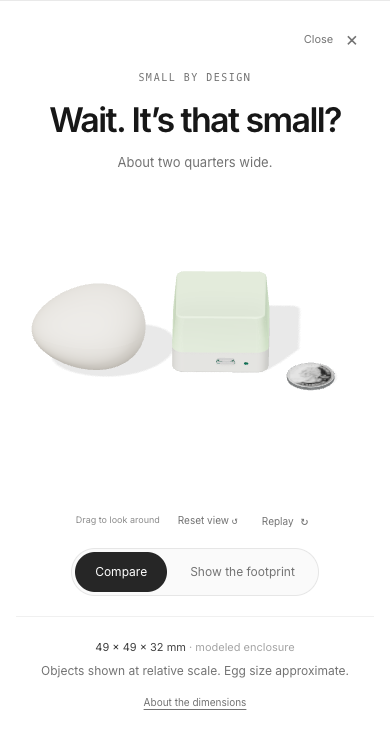
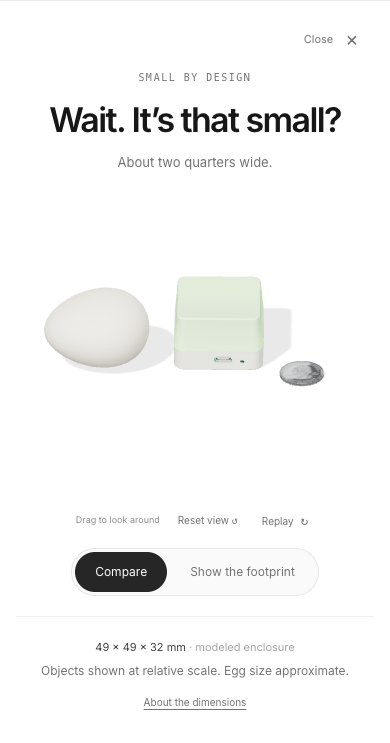
Smooth overhead camera transition and refine quarter silver finish

diff --git a/src/scale/scene.js b/src/scale/scene.js
@@ -3,6 +3,7 @@ import {GLTFLoader} from 'three/addons/loaders/GLTFLoader.js';
 import {RoomEnvironment} from 'three/addons/environments/RoomEnvironment.js';
 import {scaleConfig as C,ease,coinSupport} from './config.js';
 import {makeEgg,makeQuarter} from './assets.js';
+import {comparisonCameraPose} from './camera.js';
 export async function createComparison(host,state){
  const renderer=new T.WebGLRenderer({antialias:true,alpha:true,preserveDrawingBuffer:true});
  renderer.setPixelRatio(Math.min(devicePixelRatio,C.quality.pixelRatio));renderer.setClearColor('#fff',0);renderer.toneMapping=T.ACESFilmicToneMapping;renderer.toneMappingExposure=.85;renderer.shadowMap.enabled=true;renderer.shadowMap.type=T.PCFShadowMap;
@@ -33,8 +34,7 @@ export async function createComparison(host,state){
  function render(now){raf=0;if(dead||!visible||document.hidden)return;
  const rt=state.reduced||state.mobile?1:Math.min(1,(now-revealStart)/C.timing.reveal),r=ease(rt),v=state.reduced?1:ease((now-viewStart)/C.timing.view);view=T.MathUtils.lerp(from,to,v);
  const w=host.clientWidth,h=host.clientHeight,aspect=w/h,vertical=T.MathUtils.lerp(C.camera.closeSpan,Math.max((state.mobile?C.camera.mobileSpan:C.camera.span)/aspect,state.mobile?150:118),r);camera.left=-vertical*aspect/2;camera.right=vertical*aspect/2;camera.top=vertical/2;camera.bottom=-vertical/2;
- const orbitTarget=new T.Vector3(...C.camera.target),orbit=new T.Spherical().setFromVector3(new T.Vector3(...C.camera.compare).sub(orbitTarget));orbit.theta+=state.rotation.yaw;orbit.phi+=state.rotation.pitch;
- camera.position.setFromSpherical(orbit).add(orbitTarget).lerp(new T.Vector3(...C.camera.overhead),view);const target=new T.Vector3(...C.camera.target).multiplyScalar(r);target.multiplyScalar(1-view);target.z+=view*10;camera.position.z+=view*10;camera.lookAt(target);camera.updateProjectionMatrix();
+ const pose=comparisonCameraPose(view,r,state.rotation);camera.position.copy(pose.position);camera.quaternion.copy(pose.orientation);camera.updateProjectionMatrix();
  egg.rotation.set(0,.12*(1-view),0);egg.rotation.x=(1-r)*.3;egg.position.set(C.positions.egg[0]-(1-r)*20-view*3,0,C.positions.egg[2]);egg.updateMatrixWorld();egg.position.y=-new T.Box3().setFromObject(egg).min.y;
  const settle=ease((rt-.35)/.65),tilt=(1-settle)*Math.PI/2+Math.sin(settle*Math.PI*6)*.08*Math.sin(settle*Math.PI);coin.rotation.set(tilt,(1-settle)*Math.PI*2,0);coin.position.set(T.MathUtils.lerp(C.positions.coin[0]+(1-settle)*55,-qd.diameter/2,view),coinSupport(tilt,qd.diameter/2,qd.thickness),T.MathUtils.lerp(C.positions.coin[2],C.positions.footprintZ,view));
  coin2.visible=view>.001;coin2.position.set(T.MathUtils.lerp(110,qd.diameter/2,view),qd.thickness/2,C.positions.footprintZ);

diff --git a/src/scale/assets.js b/src/scale/assets.js
@@ -16,7 +16,14 @@ export async function makeQuarter(){
  const metal=new T.MeshStandardMaterial({color:'#b8bbbd',metalness:.87,roughness:.32});
  const body=new T.Mesh(new T.CylinderGeometry(r-.09,r-.09,thickness-.1,128),metal);group.add(body);
  const image=await new T.TextureLoader().loadAsync('/showcase/scale/quarter.png');image.colorSpace=T.SRGBColorSpace;
- const face=new T.Mesh(new T.CircleGeometry(r-.26,128),new T.MeshStandardMaterial({map:image,metalness:.65,roughness:.4,bumpMap:image,bumpScale:.13}));face.rotation.x=-Math.PI/2;face.position.y=thickness/2-.025;group.add(face);
+ // Compress the photograph's baked mirror-black reflections into silver tones.
+ // Keep the original grayscale as shallow relief so studio lights reveal the engraving.
+ const silverCanvas=document.createElement('canvas');silverCanvas.width=silverCanvas.height=1024;
+ const silverContext=silverCanvas.getContext('2d');silverContext.drawImage(image.image,0,0,1024,1024);
+ const pixels=silverContext.getImageData(0,0,1024,1024);
+ for(let i=0;i<pixels.data.length;i+=4){const luminance=(pixels.data[i]*.2126+pixels.data[i+1]*.7152+pixels.data[i+2]*.0722)/255;const tone=78+Math.pow(luminance,.8)*130;pixels.data[i]=tone;pixels.data[i+1]=tone+2;pixels.data[i+2]=tone+4;}
+ silverContext.putImageData(pixels,0,0);const silver=new T.CanvasTexture(silverCanvas);silver.colorSpace=T.SRGBColorSpace;
+ const face=new T.Mesh(new T.CircleGeometry(r-.26,128),new T.MeshStandardMaterial({map:silver,metalness:.8,roughness:.37,envMapIntensity:.65,bumpMap:image,bumpScale:.26}));face.rotation.x=-Math.PI/2;face.position.y=thickness/2-.025;group.add(face);
  for(const y of [-1,1]){const rim=new T.Mesh(new T.TorusGeometry(r-.13,.13,6,128),metal);rim.rotation.x=Math.PI/2;rim.position.y=y*(thickness/2-.13);group.add(rim)}
  const ridges=new T.InstancedMesh(new T.BoxGeometry(.12,thickness-.24,.13),metal,reeds),dummy=new T.Object3D();
  for(let i=0;i<reeds;i++){const a=i/reeds*Math.PI*2;dummy.position.set((r-.065)*Math.sin(a),0,(r-.065)*Math.cos(a));dummy.rotation.y=a;dummy.updateMatrix();ridges.setMatrixAt(i,dummy.matrix)}group.add(ridges);

diff --git a/tests/scale.test.js b/tests/scale.test.js
@@ -12,3 +12,24 @@ test('assembled engineering bounds match comparison dimensions without scaling',
 });
 test('two real quarters remain slightly narrower than enclosure',()=>{assert.equal(C.dimensions.quarter.diameter*2,48.52);assert.ok(Math.abs(C.dimensions.product.width-48.52-.48)<1e-10)});
 test('rolling coin support keeps cylinder above table throughout settlement',()=>{for(let i=0;i<=100;i++){const a=i/100*Math.PI/2,y=coinSupport(a);for(let j=0;j<120;j++){const py=12.13*Math.sin(j/120*Math.PI*2)*Math.sin(a);assert.ok(y+py-.875*Math.cos(a)>-1e-10)}}});
+
+// A lookAt camera with world-up Y has a singularity when it reaches overhead.
+// Exercise both ends and user-rotated views, including the exact final frame.
+import {comparisonCameraPose} from '../src/scale/camera.js';
+import {ease} from '../src/scale/config.js';
+test('camera settles continuously at both ends, including after drag rotation',()=>{
+ for(const yaw of [-.6,0,.6])for(const pitch of [-.18,0,.18])for(const reverse of [false,true]){
+  const rotation={yaw,pitch};
+  const sample=t=>comparisonCameraPose(reverse?1-ease(t):ease(t),1,rotation).orientation;
+  let previous=sample(0),peak=0,lastStep=0;
+  for(let i=1;i<=120;i++){const current=sample(i/120),step=previous.angleTo(current);assert.ok(Number.isFinite(step));assert.ok(step<.03,`Discontinuous camera step: ${step}`);peak=Math.max(peak,step);lastStep=step;previous=current}
+  assert.ok(lastStep<peak*.025,'The final frame must ease to rest');
+ }
+});
+test('footprint camera is exactly overhead with a stable north direction',()=>{
+ const pose=comparisonCameraPose(1,1,{yaw:.6,pitch:.18});
+ const forward=new T.Vector3(0,0,-1).applyQuaternion(pose.orientation);
+ const up=new T.Vector3(0,1,0).applyQuaternion(pose.orientation);
+ assert.ok(forward.distanceTo(new T.Vector3(0,-1,0))<1e-10);
+ assert.ok(up.distanceTo(new T.Vector3(0,0,-1))<1e-10);
+});

diff --git a/src/scale/camera.js b/src/scale/camera.js
@@ -1,0 +1,20 @@
+import * as T from 'three';
+import {scaleConfig as C} from './config.js';
+
+// Interpolate orientations, not a lookAt direction near its vertical pole.
+// A fixed north direction keeps the orthographic footprint level at the endpoint.
+export function comparisonCameraPose(progress,reveal,rotation){
+ const orbitTarget=new T.Vector3(...C.camera.target);
+ const orbit=new T.Spherical().setFromVector3(new T.Vector3(...C.camera.compare).sub(orbitTarget));
+ orbit.theta+=rotation.yaw;orbit.phi+=rotation.pitch;
+ const comparePosition=new T.Vector3().setFromSpherical(orbit).add(orbitTarget);
+ const compareTarget=orbitTarget.clone().multiplyScalar(reveal);
+ const overheadTarget=new T.Vector3(0,0,10);
+ const overheadPosition=new T.Vector3(...C.camera.overhead).add(overheadTarget);
+ const compareOrientation=new T.Quaternion().setFromRotationMatrix(new T.Matrix4().lookAt(comparePosition,compareTarget,new T.Vector3(0,1,0)));
+ const overheadOrientation=new T.Quaternion().setFromRotationMatrix(new T.Matrix4().lookAt(overheadPosition,overheadTarget,new T.Vector3(0,0,-1)));
+ return {
+  position:comparePosition.lerp(overheadPosition,progress),
+  orientation:compareOrientation.slerp(overheadOrientation,progress),
+ };
+}

diff --git a/src/scale/config.js b/src/scale/config.js
@@ -2,7 +2,7 @@
 export const scaleConfig = {
  dimensions: {product: {width:49,depth:49,height:32,retailHeight:36},quarter:{diameter:24.26,thickness:1.75,reeds:119},egg:{length:58,diameter:44}},
  timing:{reveal:2600,view:1000},
- camera:{compare:[65,130,190],overhead:[0,220,.001],target:[-13,13,12],span:174,mobileSpan:208,closeSpan:62},
+ camera:{compare:[65,130,190],overhead:[0,220,0],target:[-13,13,12],span:174,mobileSpan:208,closeSpan:62},
  positions:{egg:[-67,0,17],coin:[46,0,29],footprintZ:44},
  interaction:{yawLimit:.6,pitchLimit:.18,dragSpeed:.005,keyStep:.08},
  quality:{pixelRatio:1.6,shadowSize:1024},

diff --git a/public/showcase/scale/README.md b/public/showcase/scale/README.md
@@ -6,7 +6,7 @@ One scene unit = one millimeter. `src/scale/config.js` owns all dimensions, came
 The existing engineering model's housing + diffuser bounds are **49 × 49 × 32 mm** (width × depth × height). Both a Node test and the live scene validate those bounds. The [retail AirCube page](https://stuckatprototype.com/products/aircube) lists **49 × 49 × 36 mm**. This section retains the source geometry and explicitly discloses the difference under “About the dimensions.” No axis is stretched. See ../README.md and existing license notices for CAD provenance and illustrative internals.
 
 ## Quarter
-[US Mint specifications](https://www.usmint.gov/learn/coins-and-medals/circulating-coins/coin-specifications): diameter 24.26 mm, thickness 1.75 mm, 119 reeds. Two quarters span 48.52 mm, leaving 0.48 mm relative to the enclosure width. Rim/reeds stay inside the specified envelope. The procedural edge/rim and shallow image bump are illustrative, not engraved mint tooling. Only the obverse is detailed; the unseen reverse is plain.
+[US Mint specifications](https://www.usmint.gov/learn/coins-and-medals/circulating-coins/coin-specifications): diameter 24.26 mm, thickness 1.75 mm, 119 reeds. Two quarters span 48.52 mm, leaving 0.48 mm relative to the enclosure width. Rim/reeds stay inside the specified envelope. The procedural edge/rim and shallow image bump are illustrative, not engraved mint tooling. The source photograph is remapped into silver tones at runtime to reduce baked black mirror reflections; the original luminance drives shallow relief. Material response uses the shared studio lighting. Only the obverse is detailed; the unseen reverse is plain.
 
 Quarter-dollar coin image from the United States Mint. `quarter.png` is the Mint's Washington obverse, as cropped/background-removed in [Wikimedia Commons: 2006 Quarter Proof.png](https://commons.wikimedia.org/wiki/File:2006_Quarter_Proof.png), marked public domain (PD US money). Original creator: United States Mint. Source: https://upload.wikimedia.org/wikipedia/commons/a/a0/2006_Quarter_Proof.png . The [Mint's state-quarter image policy](https://www.usmint.gov/news/image-library/50-state-quarters-design-use-policy) permits these images with the applicable credit and no implication of endorsement. Credit also appears in the section's dimension disclosure. No Mint endorsement is claimed. Rebuild with `python3 scripts/scale/prepare-coin.py`.
 

diff --git a/scripts/scale/HANDOFF.md b/scripts/scale/HANDOFF.md
@@ -21,3 +21,6 @@ CAD enclosure is 49×49×32 mm, while retail lists 36 mm high; both are disclose
 
 ## Comparison interaction refinement
 Compare now supports bounded camera orbit by mouse drag, horizontal touch swipe, or arrow keys with the canvas focused. All objects remain fixed at the same physical scale. Vertical touch gestures retain page scrolling. Footprint mode locks the camera overhead and preserves the previous Compare angle; Reset view restores the default, and Replay resets the angle before the reveal. Limits and sensitivity are in `scaleConfig.interaction`. `node scripts/scale/drag.mjs` checks mouse/touch input, normal mobile scrolling, keyboard, reset, footprint lock, and restored orbit. The refined header, grouped secondary actions and primary view selector remain within the optional disclosure. Posters have been regenerated for the adjusted composition and diffuser material.
+
+## Camera endpoint correction
+`src/scale/camera.js` interpolates explicit camera quaternions, avoiding world-up lookAt instability at the overhead pole. The endpoint is now mathematically vertical. Regression tests cover both directions and the full drag limits; `node scripts/scale/transition.mjs` captures late animation positions and checks projected-label continuity. The quarter's silver-tone remapping and shallow relief settings are in `src/scale/assets.js`.
